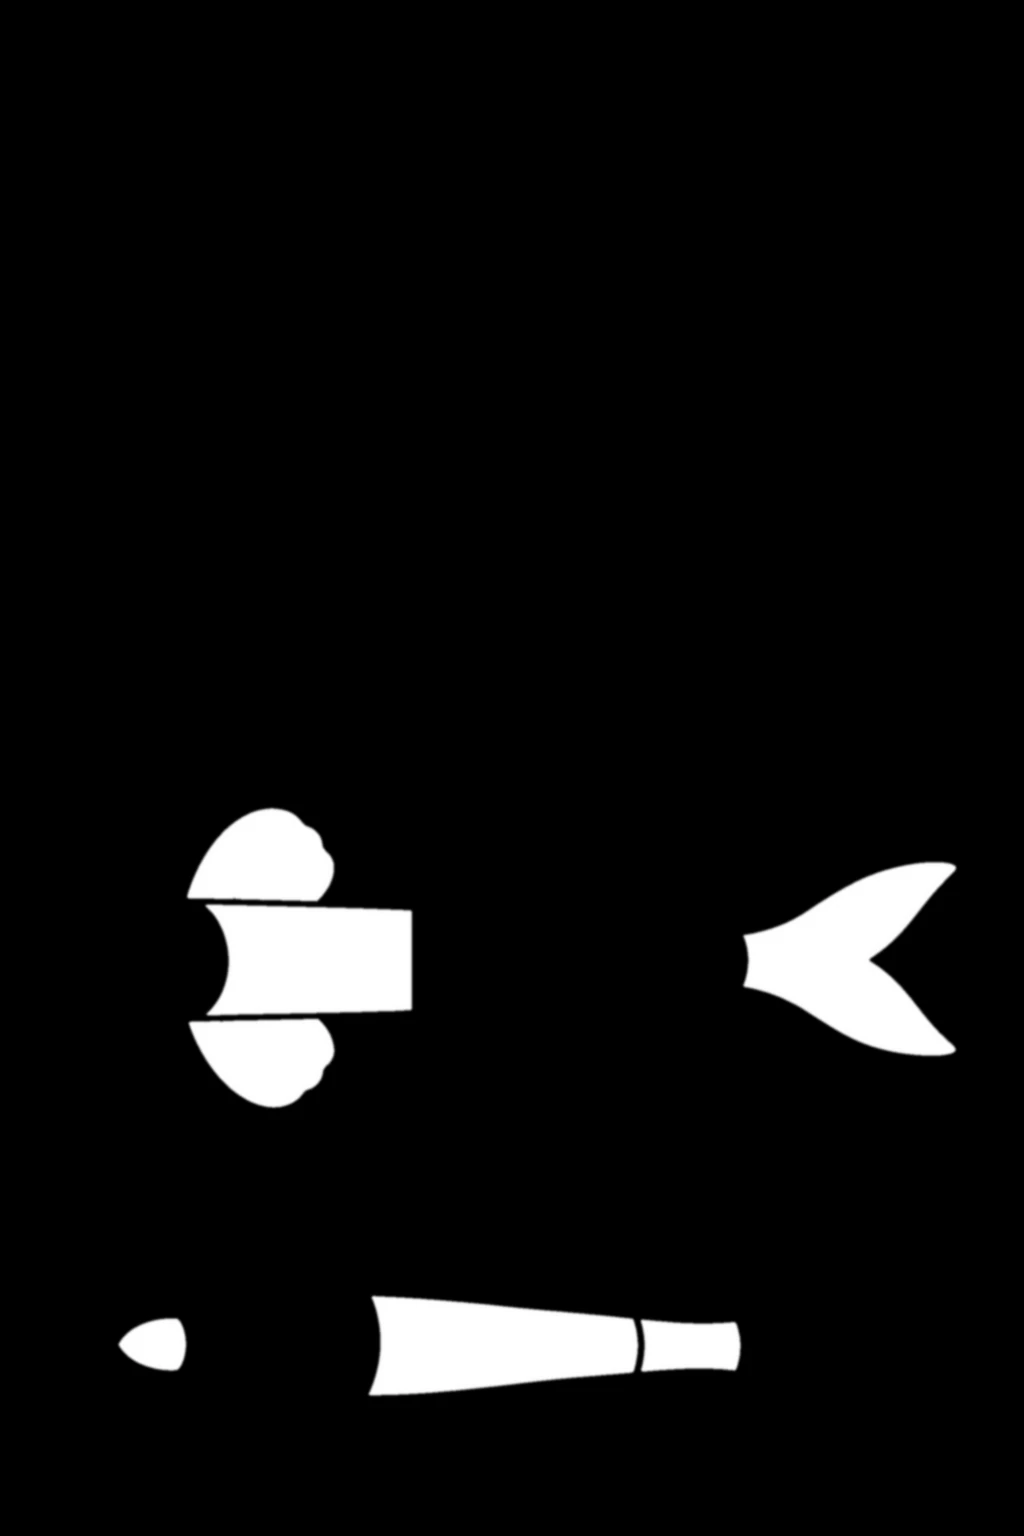
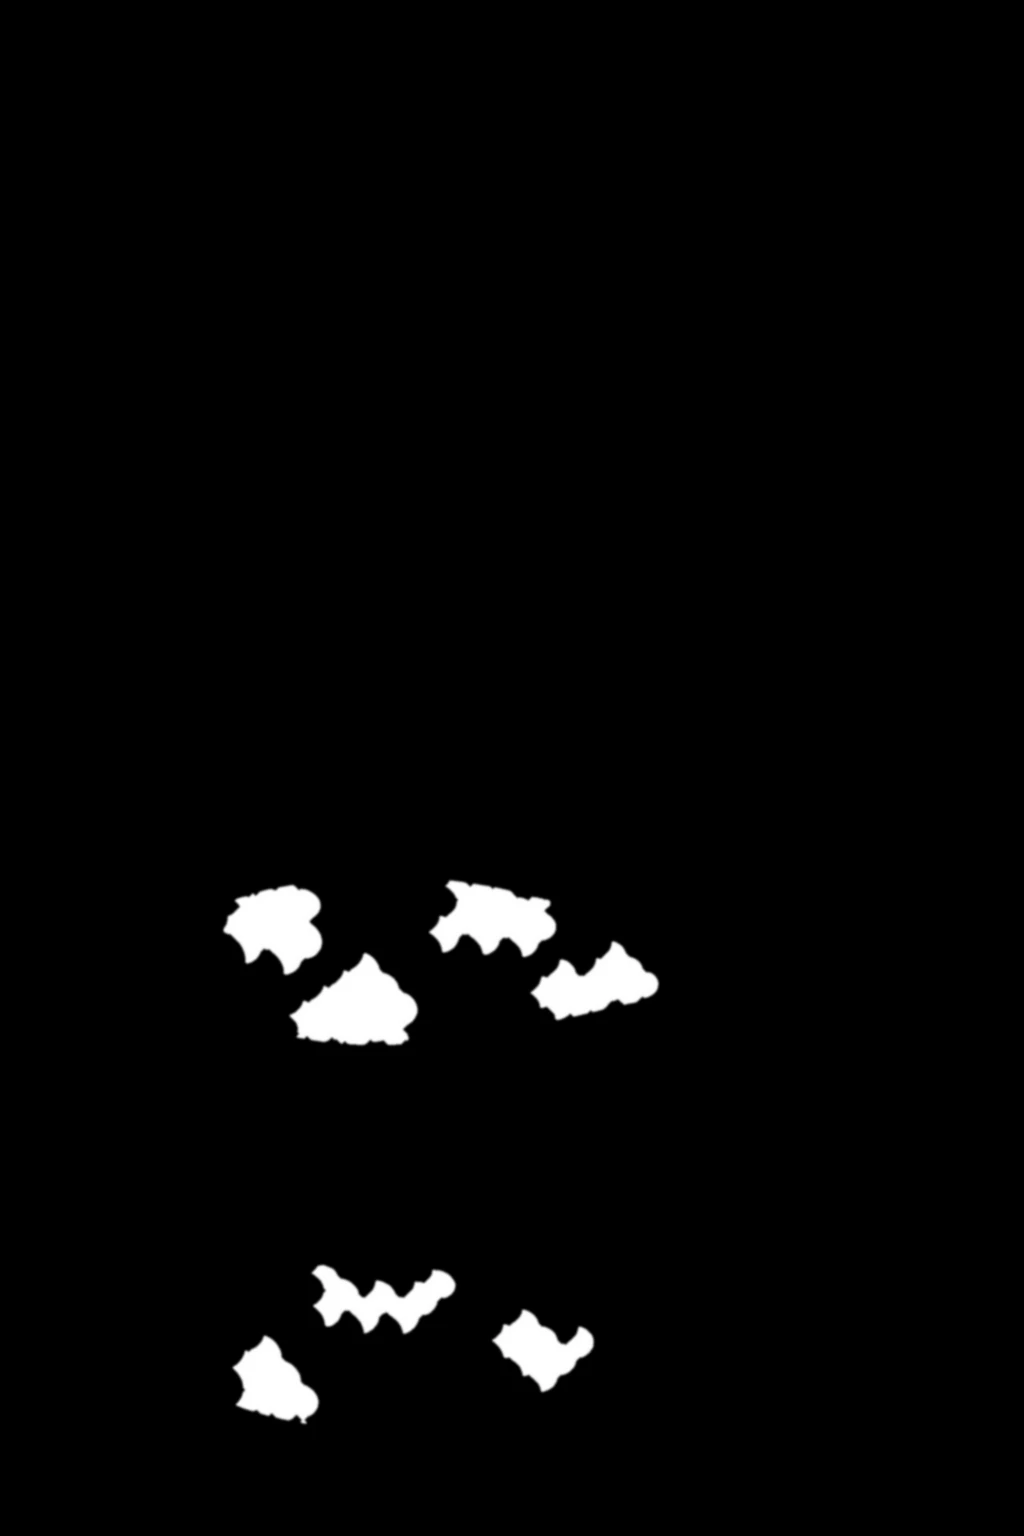
feat(pond): redraw the stained glass koi and lilies as rich as the bed
The first versions were far plainer than the bed and the dragon. Both
keep their names in public/pond/stained/.

koi.webp, koi-mask.webp: each koi is some 150 pieces of glass, its
scales rows of arcs across the body, its fins and tail fanned into
ribbed pieces; the mask is groups of scales, four on row 3 and three
on row 4. The glass's grain is softened by half a pixel to keep the
sheet within 200 KB.

lilies.webp: pads of 45 to 65 pieces with veins that branch from the
stalk and a pale rim, flowers with two-piece petals, a withered pad
with branching veins.

Neither has been seen in the pond; the look's table in the brief
says what came out and what is weak.

diff --git a/docs/agents/pond.md b/docs/agents/pond.md
@@ -1059,7 +1059,7 @@ and a little matt painted line. Make them in this order; the bed alone is enough
    third (the top third of the upright one) in darker, larger, quieter panes: the title's type stands
    there. The shader lays the daylight and the moving water over it. Under 300 KB and 120 KB (a bed
    may pass the budget, with its line in the size check).
-2. **P0, asked again** (the first version is far plainer than the bed and the dragon: four or five
+2. **P0, delivered again, to wire in** (the first version is far plainer than the bed and the dragon: four or five
    flat pieces a fish, which reads as clip art; the line that asked for "three or four pieces" was
    wrong). `koi.webp` and `koi-mask.webp`, to the common spec ("The koi sheet"): each koi as a
    Tiffany window builds a fish, as richly as the bed is built: 40 pieces of glass or more to a
@@ -1072,7 +1072,7 @@ and a little matt painted line. Make them in this order; the bed alone is enough
    run across the body, so the koi can bend. The dragon delivered is the measure of detail.
 3. **P0, delivered, to wire in:** `dragon.webp`, to "The dragon sheet": a dragon in glass and lead, amber and gold with ruby
    for the crest, the mane and the tail's tuft, its scales as small leaded pieces in rows.
-4. **P1, asked again** (the first version's pads are a disc cut into wedges). `lilies.webp`,
+4. **P1, delivered again, to wire in** (the first version's pads are a disc cut into wedges). `lilies.webp`,
    1024 × 512, 4 × 2: three lily pads from above (large, medium, small), two lotus flowers, a bud,
    a seed-pod and a withered pad for autumn, each as a Tiffany window builds one: a pad of 15 pieces
    or more, its veins branching as lead lines from the stalk and not as straight spokes, in three
@@ -1095,10 +1095,10 @@ What has come, in `public/pond/stained/`, all made by the image model and none y
 | --- | --- | --- |
 | `bed.webp` | 2048 × 1152, 192 KB | The water as a leaded window, opaque to every edge: panes like long leaves lying along a current that runs from the lower left to the upper right, about 160 × 70 pixels each (from 100 to 220 across), in navy (`#001035`), cobalt (`#004ec0`) and blue-green (`#0093b8`) with a few in violet; five small amber panes, all in the right two thirds. Black lead about 6 pixels wide with small solder dots at the joints. The left third is in dark navy and dark green panes, a quarter as bright as the rest (a mean of 18 in 255 against 63 and 70). It was made at 1672 × 941 and enlarged, so it is a little soft; encoded at quality 52 to keep within the budget for a file, with no line in the size check. The glass's streaks stand a little in relief in places, more like rippled glass than flat. |
 | `bed-tall.webp` | 1080 × 1920, 161 KB | The same window composed upright: the same glass and palette, the dark quiet panes in the top third (22 against 68 and 72), six amber panes below it. Its lead is thinner than the wide one's (about 4.5 pixels) and its panes longer (about 230 × 90). Over the 120 KB asked for: the streaks of the glass cost that much, and at quality 30 the leads still hold; lower, the panes smear. |
-| `koi.webp` | 1024 × 1536, 140 KB | Four koi from straight above in rows of 384, heads to the left, each from the barbels at x 62 to the tail tip at x 962, the spine on its row's middle line, the paint from 34 to 347 down each row. Each is nine pieces of glass in black lead: a head, three bands of body divided by leads that cross it (none runs along it), two pairs of fins with painted rays, a forked tail; the eyes are painted dots. Row 1: an amber head and tail, a gold body and fins. Row 2: milk-white, with one round ruby piece leaded into the head. Rows 3 and 4: greys. All four are one cutting but for row 4's head, which has a shield-shaped piece inset. The pieces are few and plain and the streaks faint, so at full size it reads flatter than the bed, nearer a paper cut-out than glass; the spine wanders up to 5 pixels in rows 3 and 4. |
-| `koi-mask.webp` | 1024 × 1536, 8 KB | White over the pieces to tint, soft by 2 pixels, black elsewhere, cut from the same pictures as the koi (the pieces were painted magenta, then turned to a middle grey), so it lines up to the pixel. Row 3: the first band of the body, the two front fins and the tail (48% of the fish). Row 4: the inset piece on the head, the second band and the tail's stalk (22%). Whole pieces are tinted, lead to lead, which is more of the fish than the other looks' patches. |
+| `koi.webp` | 1024 × 1536, 190 KB | Four koi from straight above in rows of 384, heads to the left, each from the barbels at x 62 to the tail tip at x 962, the spine on its row's middle line, the paint from 24 to 359 down each row (25 pixels clear). The second version: the first was nine flat pieces a fish. Each is some 150 pieces of glass in black lead: scales as rows of arcs across the body, about seven across at the widest and some twenty rows along it, each scale a tone of its own; a head of several pieces with painted eyes and two barbels; each of the four fins a fan of six to eight ribbed pieces, the forked tail one of a dozen. No lead runs along the spine. Row 1: ambers, golds and orange, a deeper piece on the brow. Row 2: milk-white, with one ruby piece on the brow. Rows 3 and 4: greys. All four are one cutting, the last three made from the first. The body is a fifth as wide as the fish is long. The glass is crinkled more than streaked, and its grain is softened by half a pixel to bring the file within the budget; the white koi's glass varies little; the fins of a pair differ a little. |
+| `koi-mask.webp` | 1024 × 1536, 8 KB | White over the patches to tint, soft by 2 pixels, black elsewhere, cut from the same pictures as the koi (the patches were painted magenta, then turned to a middle grey), so it lines up to the pixel. Each patch is a group of neighbouring scales with the leads between them. Row 3: four patches on the back, from the shoulder to two thirds along (16% of the fish). Row 4: three (9%). The patches follow the scales' edges, so their outlines are ragged; none is on a head, a fin or a tail, and row 4's are small. |
 | `dragon.webp` | 2048 × 512, 125 KB | The Dragon Gate's dragon in glass and lead: head to the left, the spine on y 256, the snout's tip at x 64 and the tail's at x 1984, one straight picture scaled evenly to those two points. Amber and gold scales as small leaded pieces in rows of arcs, about four across the body, a chain of ruby pieces down the spine, a ruby mane and tail flame, a cream muzzle, antlers, whiskers and claws, painted eyes under brows. Paint from y 111 to 401; legs at x 446 and x 1021, the claws 145 pixels from the spine. The trunk is about 140 pixels across behind the shoulders, broader than the 100 asked for; the muzzle is short and scrolled; the outer lead is heavier than the inner ones, and the glass's streaks are dense, nearer marbled enamel in places. |
-| `lilies.webp` | 1024 × 512, 77 KB | Eight motifs in a 4 × 2 grid of 256-pixel cells, from above, at one scale, each at least 14 pixels clear of its cell. Top row: three pads with one notch each, in wedges of light and dark green whose leads are the veins (228, 180 and 130 pixels across), and an open lotus of two rings of petals, pink outside and white within, round a gold centre (212). Bottom row: a paler lotus of eight broad petals (204), a bud of three pink pieces (76 × 90), a seed-pod with seven dark holes (107), a withered pad in brown, amber and olive with a ragged edge (200 × 178). The pads' wedges are regular, more a wheel than a leaf, and the withered pad's curl is in its outline only. |
+| `lilies.webp` | 1024 × 512, 101 KB | Eight motifs in a 4 × 2 grid of 256-pixel cells, from above, at one scale, each at least 14 pixels clear of its cell. The second version: the first one's pads were discs cut into wedges. Top row: three pads with one notch each (228, 180 and 130 pixels across; some 65, 60 and 45 pieces), their veins lead lines that branch and curve from the stalk, in deep, leaf, yellow and blue greens, with a pale rim of narrow pieces; an open lotus of three rings of petals, each petal a white tip and a pink base, round an amber heart (212). Bottom row: a paler lotus of two rings (200), a bud seen from above as a closed whorl of six pink pieces (88), a seed-pod with nine ringed seeds (110), a withered pad in brown, amber, rust and olive with branching veins, a ragged edge and two holes (200 × 187). The leads inside the motifs are 1 to 2 pixels, finer than the 3 asked for, so the rims and the pod run together at half size; the bud is rounder than a bud is. |
 | `afloat.webp` | 1024 × 512, 88 KB | Eight motifs in a 4 × 2 grid of 256-pixel cells, from above, each fitted to its cell with 16 pixels clear. Top row: a pink petal of two pieces with a cleft (it reads as a heart), a pale peach petal of one piece, a maple leaf in ruby and amber, a narrow leaf in amber and olive lying level. Bottom row: a snow crystal in pale blue, a frost flower of many small white pieces, a dragonfly with clear wings and a ruby body, a butterfly in ruby, amber and violet; the two flying things head to the right. The frost flower's pieces run together when small, and the butterfly's feelers are thin black lines that go on dark water. |
 | `clue.webp` | 400 × 120, 10 KB | A banderole lying level (370 × 90, centred): a scroll of straw-yellow glass with a curl and a forked end at each side, and in it five empty quarries of clear glass in a row, each in its own lead. No letter anywhere. |
 | `dove.webp`, `spider.webp` | 768 × 256, 13 KB and 18 KB | Three poses each in 256-pixel cells, from above, heads to the right, at one scale. The dove, in white and pale blue glass: sitting (99 × 50), wings half open (99 × 156, wider than the 130 asked for), flying (97 × 234); a wing is three or four pieces. The spider: an amber body with a ruby lozenge and a darker head, its eight legs lead itself with a joint each: sitting (137 × 121), walking (191 × 173), jumping (205 × 232). Its black legs go on the bed's dark third, as the dove's painted eye does at the size shown. |
